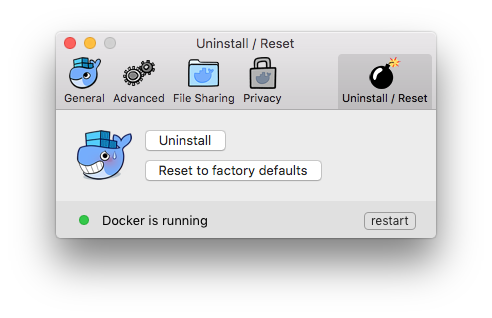
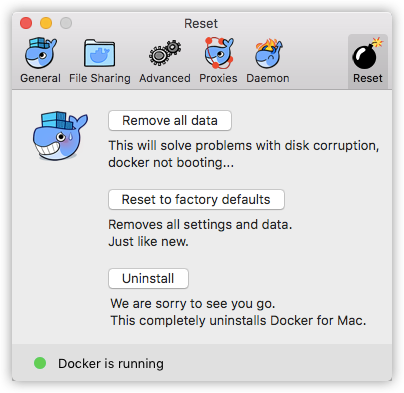
Docker for Mac, Windows 17.06 stable, edge

diff --git a/docker-for-mac/release-notes.md b/docker-for-mac/release-notes.md
@@ -19,6 +19,49 @@ about both kinds of releases, and download stable and edge product installers at
 
 ## Stable Release Notes
 
+### Docker Community Edition 17.06.0-ce-mac18, 2017-06-28 (stable)
+
+**Upgrades**
+
+- [Docker 17.06.0-ce](https://github.com/docker/docker-ce/releases/tag/v17.06.0-ce)
+- [Docker Credential Helpers 0.5.2](https://github.com/docker/docker-credential-helpers/releases/tag/v0.5.2)
+- [Docker Machine 0.12.0](https://github.com/docker/machine/releases/tag/v0.12.0)
+- [Docker compose 1.14.0](https://github.com/docker/compose/releases/tag/1.14.0)
+- qcow-tool v0.10.0 (improve the performance of `compact`: mirage/ocaml-qcow#94)
+- OSX Yosemite 10.10 is marked as deprecated
+- Linux Kernel 4.9.31
+
+**New**
+
+- Integration with Docker Cloud: control remote Swarms from the local CLI and view your repositories.
+- GUI Option to opt out of credential store
+- GUI option to reset Docker data without losing all settings (fixes [docker/for-mac#1309](https://github.com/docker/for-mac/issues/1309))
+- Add an experimental DNS name for the host: `docker.for.mac.localhost`
+- Support for client (i.e. "login") certificates for authenticating registry access (fixes [docker/for-mac#1320](https://github.com/docker/for-mac/issues/1320))
+- OSXFS: support for `cached` mount flag to improve performance of macOS mounts when strict consistency is not necessary
+
+**Bug fixes and minor changes**
+
+- Resync HTTP(S) proxy settings on application start
+- Interpret system proxy setting of `localhost` correctly (see [docker/for-mac#1511](https://github.com/docker/for-mac/issues/1511))
+- All Docker binaries bundled with Docker for Mac are now signed
+- Display all Docker Cloud organizations and repositories in the whale menu (fixes [docker/for-mac#1538 ](https://github.com/docker/for-mac/issues/1538))
+- OSXFS: improved latency for many common operations (e.g. read and write) by approximately 25%
+- Fixed GUI crash when text table view was selected and windows re-opened (fixes [docker/for-mac#1477](https://github.com/docker/for-mac/issues/1477))
+- Reset to default / uninstall also remove `config.json` and `osxkeychain` credentials
+- More detailed VirtualBox uninstall requirements ( [docker/for-mac#1343](https://github.com/docker/for-mac/issues/1343))
+- Request time sync after waking up to improve [docker/for-mac#17](https://github.com/docker/for-mac/issues/17)
+- VPNKit: Improved DNS timeout handling (fixes [docker/for-mac#202](https://github.com/docker/vpnkit/issues/202))
+- VPNKit: Use DNSServiceRef API by default (only enabled for new installs or after factory reset)
+- Add a reset to factory defaults button when application crashes
+- Toolbox import dialog now defaults to "Skip"
+- Buffered data should be treated correctly when Docker client requests are upgraded to raw streams
+- Removed an error message from the output related to experimental features handling
+- `vmnetd` should not crash when user home directory is on an external drive
+- Improved settings database schema handling
+- Disk trimming should work as expected
+- Diagnostics now contains more settings data
+
 ### Docker Community Edition 17.03.1-ce-mac12, 2017-05-12 (stable)
 
 **Upgrades**
@@ -355,6 +398,12 @@ events or unexpected unmounts.
 
 ## Edge Release Notes
 
+### Docker Community Edition 17.06.0-ce-mac17, 2017-06-28 (edge)
+
+**Upgrades**
+
+- [Docker 17.06.0-ce](https://github.com/docker/docker-ce/releases/tag/v17.06.0-ce)
+
 ### Docker Community Edition 17.06.0-rc5-ce-mac16, 2017-06-21 (edge)
 
 **Upgrades**
@@ -419,9 +468,9 @@ events or unexpected unmounts.
 
 **Bug fixes and minor changes**
 
-- Fix GUI crash when text table view was selected and windows re-opened (fixes [docker/for-mac#1477](https://github.com/docker/for-mac/issues/1477))
+- Fixed GUI crash when text table view was selected and windows re-opened (fixes [docker/for-mac#1477](https://github.com/docker/for-mac/issues/1477))
 - Reset to default / uninstall also remove `config.json` and `osxkeychain` credentials
-- More detailed virtualbox uninstall requirements ( [docker/for-mac#1343](https://github.com/docker/for-mac/issues/1343))
+- More detailed VirtualBox uninstall requirements ( [docker/for-mac#1343](https://github.com/docker/for-mac/issues/1343))
 - You are now prompted for your password, if you changed it in Docker Cloud.
 - Request time sync after waking up to improve [docker/for-mac#17](https://github.com/docker/for-mac/issues/17)
 
@@ -436,7 +485,7 @@ events or unexpected unmounts.
 
 **New**
 
-- osxfs: support for `cached` mount flag to improve performance of macOS mounts when strict consistency is not necessary
+- OSXFS: support for `cached` mount flag to improve performance of macOS mounts when strict consistency is not necessary
 
 **Upgrades**
 
@@ -446,7 +495,7 @@ events or unexpected unmounts.
 
 **Bug fixes and minor changes**
 
-- VPNKit: Improve DNS timeout handling (fixes https://github.com/docker/vpnkit/issues/202)
+- VPNKit: Improved DNS timeout handling (fixes [docker/for-mac#202](https://github.com/docker/vpnkit/issues/202))
 - VPNKit: Use DNSServiceRef API by default (only enabled for new installs or after factory reset)
 - Add a reset to factory defaults button when application crashes
 - Toolbox import dialog now defaults to "Skip"
@@ -1321,7 +1370,7 @@ The `osxfs` file system now persists ownership changes in an extended attribute.
 
 **Upgrades**
 
-* docker-compose 1.7.1 (see <a href="https://github.com/docker/compose/releases/tag/1.7.1" target="_blank"> changelog</a>)
+* docker-compose 1.7.1 (see [changelog](https://github.com/docker/compose/releases/tag/1.7.1){: target="_blank" class="_" })
 * Linux kernel 4.4.9
 
 **Bug fixes and minor changes**
@@ -1337,7 +1386,7 @@ The `osxfs` file system now persists ownership changes in an extended attribute.
   - Fixes to disk formatting scripts
   - Linux kernel upgrade to 4.4.9
 
-## Beta 10 Release (2016-05-03 1.11.0-beta10)
+### Beta 10 Release (2016-05-03 1.11.0-beta10)
 
 **New**
 
@@ -1511,7 +1560,7 @@ lead to `Docker.app` not starting on reboot
 
 - File system/sharing: Support `inotify` events so that file system events on the Mac will trigger file system activations inside Linux containers
 
-- Install Docker Machine as a part of Docker for Mac install in ``/usr/local`
+- Install Docker Machine as a part of Docker for Mac install in `/usr/local`
 
 - Added animated popover window to help first-time users get started
 

diff --git a/docker-for-mac/index.md b/docker-for-mac/index.md
@@ -107,7 +107,9 @@ the menu bar.
 
 You can set the following runtime options.
 
->**Note:** The above example shows a user signed in for integrated Docker Cloud access. This is currently available only on the [Edge channel](install.md#download-docker-for-mac). To learn more about the feature, see [Docker Cloud (Edge feature)](#docker-cloud-edge-feature).
+>**Note:** The above example shows a user signed in for integrated
+Docker Cloud access. To learn more about the feature,
+see [Docker Cloud](#docker-cloud).
 
 ### General
 
@@ -125,24 +127,17 @@ You can set the following runtime options.
   disable the check for updates, you can still find out about updates manually
   by choosing ![whale-x](/docker-for-mac/images/whale-x.png) -> **Check for Updates**
 
-* Check **Exclude VM from Time Machine backups** to prevent Time Machine
-  from backing up the Docker for Mac virtual machine.
+* Check **Include VM in Time Machine backups** to back up the Docker for Mac virtual machine. (By default, this is unchecked.)
+
+* You have the option to **Securely store Docker logins in MacOS keychain**,
+  enabled by default. To "opt out" of storing your Docker login credentials,
+  uncheck this option.
 
 * **Send usage statistics** &mdash; You can set Docker for Mac to auto-send
   diagnostics, crash reports, and usage data. This information can help Docker
   improve the application and get more context for troubleshooting problems.
   Uncheck this to opt out and prevent auto-send of data. Docker may prompt for
   more information in some cases, even with auto-send enabled.
-
-#### Choose whether to store Docker credentials on Mac keychain (Edge feature)
-
-In current Edge releases, you have an additonal option to **Securely store
-Docker logins in MacOS keychain**. This is enabled by default, and on Stable
-releases you have no option to disable it. So the effect of this is that on Edge
-releases, you can "opt out" of storing your Docker login credentials by
-disabling this.
-
-![Opt in or out of storing credentials in keychain](images/settings-edge.png)
 
 ### File sharing
 
@@ -304,13 +299,19 @@ the menu bar, then click **Uninstall / Reset** on the Preferences dialog.
 
 ![Uninstall or reset Docker](images/settings-uninstall.png)
 
+* **Remove all data** - This option removes/resets all Docker data _without_
+a reset to factory defaults (which would cause you to lose settings).
+
 * **Uninstall** - Choose this option to remove Docker for Mac from your system.
 
 * **Reset to factory defaults** - Choose this option to reset all options on
   Docker for Mac to its initial state, the same as when it was first installed.
 
-You can uninstall Docker for Mac from the command line with this command:
-`<DockerforMacPath> --uninstall`. If Docker is installed in the default
+
+### Uninstall from the command line
+
+Alternatively, you can uninstall Docker for Mac from the command line with this
+command: `<DockerforMacPath> --uninstall`. If Docker is installed in the default
 location, the following command will provide a clean uninstall.
 
 ```shell
@@ -321,18 +322,6 @@ Docker uninstalled successfully. You can move the Docker application to the tras
 
 You might want to use the command-line uninstall if, for example, you find that
 the app is non-functional, and you cannot uninstall it from the menu.
-
-### Reset Docker data (Edge feature)
-
-In current Edge releases, you have an additonal reset option to **Remove all
-data**.
-
-This option removes/resets all Docker data _without_ a reset to factory defaults
-(which would cause you to lose settings). This is an update per Edge release
-17.06.0-rc1-ce-mac13, and fixes [Docker for Mac issue
-1309](https://github.com/docker/for-mac/issues/1309)).
-
-![Uninstall or reset Docker Edge features](images/settings-uninstall-edge.png)
 
 ## Adding TLS certificates
 
@@ -477,21 +466,14 @@ options at the bottom of each docs page.
 
 ## Docker Store
 
-Choose **Docker Store** from the Docker for Mac menu
-to get to the Docker app downloads site.
-[Docker store](https://store.docker.com/) is a
-component of the next-generation Docker Hub, and the best place
-to find compliant, trusted commercial and free software
-distributed as Docker Images.
+Choose **Docker Store** from the Docker for Mac menu to get to the Docker app
+downloads site. [Docker store](https://store.docker.com/) is a component of the
+next-generation Docker Hub, and the best place to find compliant, trusted
+commercial and free software distributed as Docker Images.
 
 ![Docker Store](images/docker-store.png)
 
-## Docker Cloud (Edge feature)
-
->**Note:** Integrated Docker Cloud access is currently available only on
-the [Edge channel](install.md#download-docker-for-mac). On stable, you'll
-need to log onto [Docker Cloud](https://cloud.docker.com/) independently
-for now.
+## Docker Cloud
 
 You can access your [Docker Cloud](/docker-cloud/index.md) account from within
 Docker for Mac.
@@ -511,6 +493,9 @@ Check out these [Docker Cloud topics](/docker-cloud/index.md) to learn more:
 * [Organizations and Teams in Docker Cloud](/docker-cloud/orgs/index.md)
 * [Builds and Images](/docker-cloud/builds/index.md)
 * [Swarms in Docker Cloud](/docker-cloud/cloud-swarm/index.md)
+
+Also, here is a direct link to the [Docker Cloud
+site](https://cloud.docker.com/).
 
 ## Where to go next
 

diff --git a/docker-for-windows/release-notes.md b/docker-for-windows/release-notes.md
@@ -19,6 +19,44 @@ about both kinds of releases, and download stable and edge product installers at
 
 ## Stable Release Notes
 
+### Docker CommunityEdition 17.06.0-ce-win18 2017-06-28 (stable)
+
+**Upgrades**
+
+- [Docker 17.06.0-ce](https://github.com/docker/docker-ce/releases/tag/v17.06.0-ce)
+- [Docker Credential Helpers 0.5.2](https://github.com/docker/docker-credential-helpers/releases/tag/v0.5.2)
+- [Docker Machine 0.12.0](https://github.com/docker/machine/releases/tag/v0.12.0)
+- [Docker compose 1.14.0](https://github.com/docker/compose/releases/tag/1.14.0)
+- Linux Kernel 4.9.31
+
+**New**
+
+- Windows Server 2016 support
+- Windows 10586 is marked as deprecated; it will not be supported going forward in stable releases
+- Integration with Docker Cloud, with the ability to control remote Swarms from the local command line interface (CLI) and view your repositories
+- Unified login between the Docker CLI and Docker Hub, Docker Cloud.
+- Sharing a drive can be done on demand, the first time a mount is requested
+- Add an experimental DNS name for the host: docker.for.win.localhost
+- Support for client (i.e. "login") certificates for authenticating registry access (fixes [docker/for-win#569](https://github.com/docker/for-win/issues/569))
+- New installer experience
+
+**Bug fixes and minor changes**
+
+- Fixed group access check for users logged in with Active Directory (fixes [docker/for-win#785](https://github.com/docker/for-win/issues/785))
+- Check environment variables and add some warnings in logs if they can cause docker to fail
+- Many processes that were running in admin mode are now running within the user identity
+- Cloud federation command lines now opens in the user home directory
+- Named pipes are now created with more constrained security descriptors to improve security
+- Security fix : Users must be part of a specific group "docker-users" to run Docker for windows
+- Reset to default / uninstall also reset docker cli settings and logout user from Docker Cloud and registries
+- Detect a bitlocker policy preventing windows containers to work
+- Fixed an issue on filesharing when explicitly disabled on vmswitch interface
+- Fixed VM not starting when machine had very long name
+- Fixed a bug where Windows daemon.json file was not written (fixes [docker/for-win#670](https://github.com/docker/for-win/issues/670))
+- Added patches to the kernel to fix VMBus crash
+- Named pipe client connection should not trigger dead locks on `docker run` with data in stdin anymore
+- Buffered data should be treated correctly when docker client requests are upgraded to raw streams
+
 ### Docker Community Edition 17.03.1-ce-win12  2017-05-12 (stable)
 
 **Upgrades**
@@ -309,6 +347,12 @@ We did not distribute a 1.12.4 stable release
 
 ## Edge Release Notes
 
+### Docker Community Edition 17.06.0-win17 Release Notes (2017-06-28 17.06.0-win17) (edge)
+
+**Upgrades**
+
+- [Docker 17.06.0-ce](https://github.com/docker/docker-ce/releases/tag/v17.06.0-ce)
+
 ### Docker Community Edition 17.06.0-win16 Release Notes (2017-06-21 17.06.0-rc5-ce-win16) (edge)
 
 **Upgrades**
@@ -387,9 +431,9 @@ registry access (fixes [docker/for-win#569](https://github.com/docker/for-win/is
 
 - Reset to default / uninstall also reset docker cli settings and logout user from Docker Cloud and registries
 - Detect a bitlocker policy preventing windows containers to work
-- fix an issue on filesharing when explicitly disabled on vmswitch interface
-- fix VM not starting when machine had very long name
-- Fix a bug where Windows daemon.json file was not written (fixes [docker/for-win#670](https://github.com/docker/for-win/issues/670))
+- Fixed an issue on filesharing when explicitly disabled on vmswitch interface
+- Fixed VM not starting when machine had very long name
+- Fixed a bug where Windows daemon.json file was not written (fixes [docker/for-win#670](https://github.com/docker/for-win/issues/670))
 
 ### Docker Community Edition 17.0.5-win8 Release Notes (2017-04-13 17.05.0-ce-rc1-win8) (edge)
 
@@ -412,7 +456,7 @@ registry access (fixes [docker/for-win#569](https://github.com/docker/for-win/is
 
 **Bug fixes and minor changes**
 
-- Add patches to the kernel to fix VMBus crash
+- Added patches to the kernel to fix VMBus crash
 
 ### Docker Community Edition 17.04.0-ce-win6 Release Notes (2017-04-03 17.04.0-ce-rc2-win6) (edge)
 

diff --git a/docker-for-windows/index.md b/docker-for-windows/index.md
@@ -327,7 +327,9 @@ To get a popup menu with application options, right-click the whale:
 
 ![Docker for Windows popup menu](/docker-for-windows/images/config-popup-menu-win.png)
 
->**Note:** The above example shows a user signed in for integrated Docker Cloud access. This is currently available only on the [Edge channel](install.md#download-docker-for-windows). To learn more about the feature, see [Docker Cloud (Edge feature)](#docker-cloud-edge-feature).
+>**Note:** The above example shows a user signed in for integrated
+Docker Cloud access. To learn more about the feature, see
+[Docker Cloud](#docker-cloud).
 
 The **Settings** dialogs provide options to allow Docker auto-start,
 automatically check for updates, share local drives with Docker containers,
@@ -426,10 +428,10 @@ If the firewall rules appear to be open, consider [reinstalling the File and
 Print Sharing service on the virtual network
 adapter.](http://stackoverflow.com/questions/42203488/settings-to-windows-firewall-to-allow-docker-for-windows-to-share-drive/43904051#43904051)
 
-#### Shared drives on demand (Edge feature)
+#### Shared drives on demand
 
-On current Edge releases, sharing a drive can be done "on demand", the first
-time a particular mount is requested.
+Sharing a drive can be done "on demand", the first time a particular mount is
+requested.
 
 If you run a Docker command from a shell with a volume mount (as shown in the
 example below) or kick off a Compose file that includes volume mounts, you get a
@@ -661,21 +663,14 @@ because they do not apply to Windows containers:
 
 ### Docker Store
 
-Choose **Docker Store** from the Docker for Windows menu
-to get to the Docker app downloads site.
-[Docker store](https://store.docker.com/) is a
-component of the next-generation Docker Hub, and the best place
-to find compliant, trusted commercial and free software
-distributed as Docker Images.
+Choose **Docker Store** from the Docker for Windows menu to get to the Docker
+app downloads site. [Docker store](https://store.docker.com/) is a component of
+the next-generation Docker Hub, and the best place to find compliant, trusted
+commercial and free software distributed as Docker Images.
 
 ![Docker Store](images/docker-store.png)
 
-### Docker Cloud (Edge feature)
-
->**Note:** Integrated Docker Cloud access is currently available only on
-the [Edge channel](install.md#download-docker-for-windows).  On stable,
-you'll need to log onto [Docker Cloud](https://cloud.docker.com/)
-independently for now.
+### Docker Cloud
 
 You can access your [Docker Cloud](/docker-cloud/index.md) account from
 within Docker for Windows.
@@ -696,6 +691,9 @@ Check out these [Docker Cloud topics](/docker-cloud/index.md) to learn more:
 * [Organizations and Teams in Docker Cloud](/docker-cloud/orgs/index.md)
 * [Builds and Images](/docker-cloud/builds/index.md)
 * [Swarms in Docker Cloud](/docker-cloud/cloud-swarm/index.md)
+
+Also, here is a direct link to the [Docker Cloud
+site](https://cloud.docker.com/).
 
 ### Giving feedback and getting help
 
